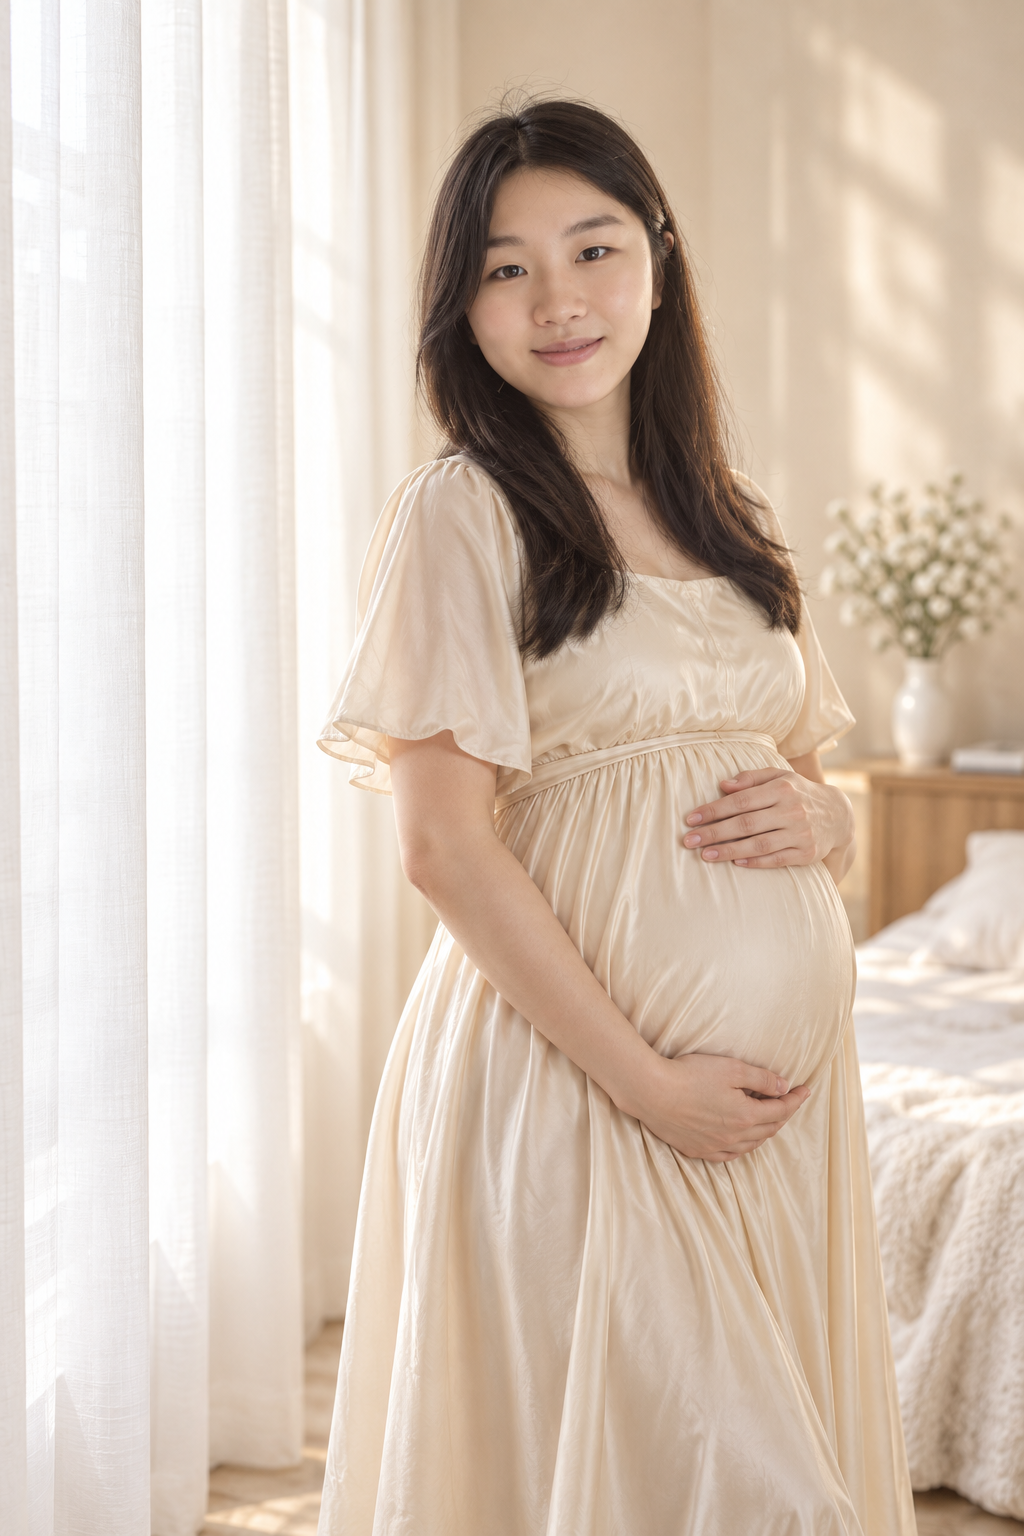
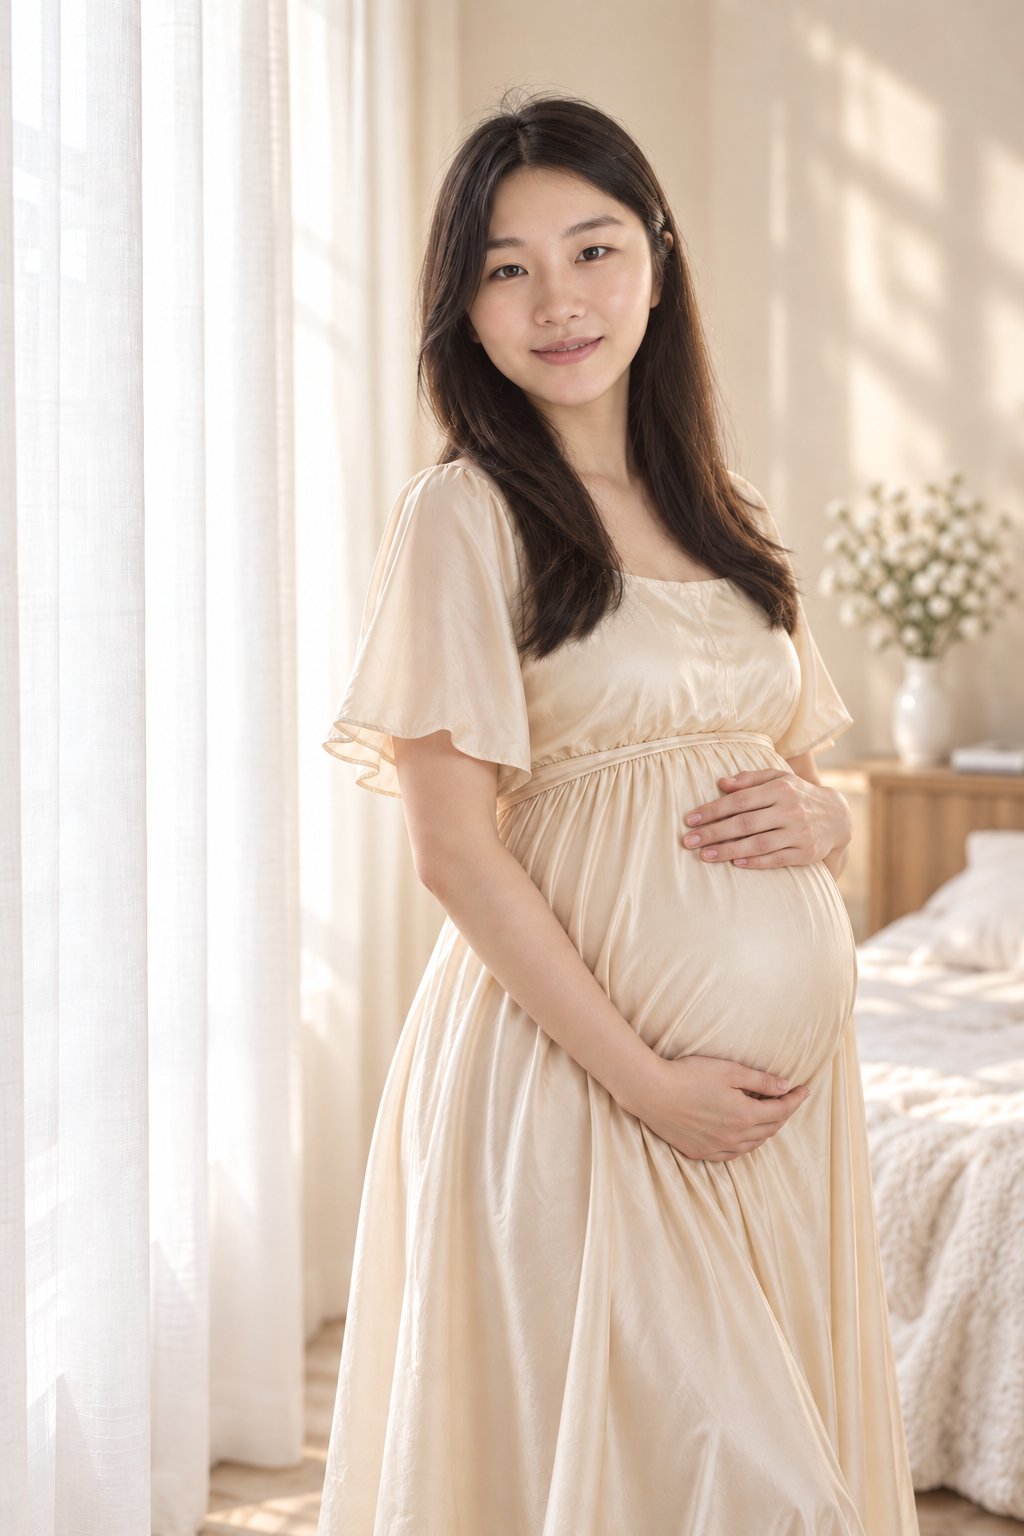
Refine facial and body contours in maternity portraits

diff --git a/photo/RETOUCH_PROMPTS.md b/photo/RETOUCH_PROMPTS.md
@@ -1,0 +1,27 @@
+# 女生面部与身形修饰记录
+
+日期：2026-09-26。工具：内置 `image_gen`，以 `photo/` 中对应的已有写真逐张编辑。
+
+本次重点：适度修饰脸颊、下颌线、肩颈及手臂轮廓，调整上半身衣裙垂坠；保留人物辨识度、自然孕肚、现有服装、表情、场景和合照中男生的形象。修饰后的文件沿用原文件名，修饰前版本保留在 Git 历史中。
+
+以下为每张图片使用的完整编辑提示词。
+
+## 01-ivory-studio.png
+
+Use case: identity-preserve. Edit the supplied existing AI-created professional maternity portrait. The image is the EDIT TARGET, not merely a style reference. Retouch ONLY the adult woman's face and physique to look noticeably but naturally more slender and elegant. Preserve her recognizable identity: same age, eye shape and size, nose, lips, hairline, hairstyle, facial expression and gaze. Gently reduce fullness of the lower cheeks, refine the oval face and jawline with a softly tapered natural chin; do not substitute a generic model or change ethnicity. Subtly streamline the neck, shoulder-to-arm transition and upper arms, with realistic joint structure and healthy proportions. Refine the upper-torso silhouette and dress drape for a graceful, slightly leaner look. Crucially preserve the natural prominent eight-month pregnancy bump and maternity character; do not flatten the abdomen or create a tiny waist at the bump. Keep her height, head-to-body scale, pose, hand placement and number of fingers anatomically consistent. Use restrained professional portrait retouching, delicate realistic makeup and flattering light, retaining real skin texture. Keep existing composition, crop, background geometry, colors, clothing design, fabric details and overall lighting as closely as possible. No extreme slimming, bony anatomy, enlarged eyes, pointed V-chin, plastic skin, warped background, extra fingers, new objects, text, watermark, collage or borders. Output one finished photorealistic vertical 2:3 PNG, 1024 x 1536 pixels. Specific target: ivory studio couple portrait. Keep the husband completely unchanged, including his face, rectangular glasses, corrected build, relative height, ivory shirt, beige trousers and supportive hand. Preserve the woman's ivory off-shoulder pleated gown and warm gentle smile. Refine the visible upper arm and facial contour with a natural moderate change.
+
+## 02-rose-garden.png
+
+Use case: identity-preserve. Edit the supplied existing AI-created professional maternity portrait. The image is the EDIT TARGET, not merely a style reference. Retouch ONLY the adult woman's face and physique to look noticeably but naturally more slender and elegant. Preserve her recognizable identity: same age, eye shape and size, nose, lips, hairline, hairstyle, facial expression and gaze. Gently reduce fullness of the lower cheeks, refine the oval face and jawline with a softly tapered natural chin; do not substitute a generic model or change ethnicity. Subtly streamline the neck, shoulder-to-arm transition and upper arms, with realistic joint structure and healthy proportions. Refine the upper-torso silhouette and dress drape for a graceful, slightly leaner look. Crucially preserve the natural prominent eight-month pregnancy bump and maternity character; do not flatten the abdomen or create a tiny waist at the bump. Keep her height, head-to-body scale, pose, hand placement and number of fingers anatomically consistent. Use restrained professional portrait retouching, delicate realistic makeup and flattering light, retaining real skin texture. Keep existing composition, crop, background geometry, colors, clothing design, fabric details and overall lighting as closely as possible. No extreme slimming, bony anatomy, enlarged eyes, pointed V-chin, plastic skin, warped background, extra fingers, new objects, text, watermark, collage or borders. Output one finished photorealistic vertical 2:3 PNG, 1024 x 1536 pixels. Specific target: rose garden couple portrait. Keep the husband completely unchanged, including face, eyeglasses, corrected physique, relative height, white shirt, taupe trousers and pose. Preserve the woman's pink maternity gown, natural tooth-showing smile, both hands cradling the bump, golden garden light and roses. Reduce extra visual bulk in the upper body and sleeve draping without changing the gown design.
+
+## 03-sunset-beach.png
+
+Use case: identity-preserve. Edit the supplied existing AI-created professional maternity portrait. The image is the EDIT TARGET, not merely a style reference. Retouch ONLY the adult woman's face and physique to look noticeably but naturally more slender and elegant. Preserve her recognizable identity: same age, eye shape and size, nose, lips, hairline, hairstyle, facial expression and gaze. Gently reduce fullness of the lower cheeks, refine the oval face and jawline with a softly tapered natural chin; do not substitute a generic model or change ethnicity. Subtly streamline the neck, shoulder-to-arm transition and upper arms, with realistic joint structure and healthy proportions. Refine the upper-torso silhouette and dress drape for a graceful, slightly leaner look. Crucially preserve the natural prominent eight-month pregnancy bump and maternity character; do not flatten the abdomen or create a tiny waist at the bump. Keep her height, head-to-body scale, pose, hand placement and number of fingers anatomically consistent. Use restrained professional portrait retouching, delicate realistic makeup and flattering light, retaining real skin texture. Keep existing composition, crop, background geometry, colors, clothing design, fabric details and overall lighting as closely as possible. No extreme slimming, bony anatomy, enlarged eyes, pointed V-chin, plastic skin, warped background, extra fingers, new objects, text, watermark, collage or borders. Output one finished photorealistic vertical 2:3 PNG, 1024 x 1536 pixels. Specific target: sunset beach couple portrait. Keep the husband completely unchanged, including his face, eyeglasses, corrected physique, relative height, ivory shirt, beige trousers and pose. Preserve the woman's dusty-blue maternity gown, neckline and sleeves, her current smile and the full-length beach composition. Keep the horizon straight, sand and ocean undistorted. Slightly refine her face, shoulders and upper-arm silhouette while preserving her belly and dress skirt.
+
+## 04-window-solo.png
+
+Use case: identity-preserve. Edit the supplied existing AI-created professional maternity portrait. The image is the EDIT TARGET, not merely a style reference. Retouch ONLY the adult woman's face and physique to look noticeably but naturally more slender and elegant. Preserve her recognizable identity: same age, eye shape and size, nose, lips, hairline, hairstyle, facial expression and gaze. Gently reduce fullness of the lower cheeks, refine the oval face and jawline with a softly tapered natural chin; do not substitute a generic model or change ethnicity. Subtly streamline the neck, shoulder-to-arm transition and upper arms, with realistic joint structure and healthy proportions. Refine the upper-torso silhouette and dress drape for a graceful, slightly leaner look. Crucially preserve the natural prominent eight-month pregnancy bump and maternity character; do not flatten the abdomen or create a tiny waist at the bump. Keep her height, head-to-body scale, pose, hand placement and number of fingers anatomically consistent. Use restrained professional portrait retouching, delicate realistic makeup and flattering light, retaining real skin texture. Keep existing composition, crop, background geometry, colors, clothing design, fabric details and overall lighting as closely as possible. No extreme slimming, bony anatomy, enlarged eyes, pointed V-chin, plastic skin, warped background, extra fingers, new objects, text, watermark, collage or borders. Output one finished photorealistic vertical 2:3 PNG, 1024 x 1536 pixels. Specific target: single-woman window-lit maternity portrait. Preserve the champagne satin gown, sleeves and empire waist, existing three-quarter pose, hand positions and soft closed-mouth smile. Make her face subtly more oval, upper arms and shoulders gently slimmer, and satin folds more flattering while keeping the pregnancy bump unchanged and the curtains, bedroom and light intact.
+
+## 05-courtyard-solo.png
+
+Use case: identity-preserve. Edit the supplied existing AI-created professional maternity portrait. The image is the EDIT TARGET, not merely a style reference. Retouch ONLY the adult woman's face and physique to look noticeably but naturally more slender and elegant. Preserve her recognizable identity: same age, eye shape and size, nose, lips, hairline, hairstyle, facial expression and gaze. Gently reduce fullness of the lower cheeks, refine the oval face and jawline with a softly tapered natural chin; do not substitute a generic model or change ethnicity. Subtly streamline the neck, shoulder-to-arm transition and upper arms, with realistic joint structure and healthy proportions. Refine the upper-torso silhouette and dress drape for a graceful, slightly leaner look. Crucially preserve the natural prominent eight-month pregnancy bump and maternity character; do not flatten the abdomen or create a tiny waist at the bump. Keep her height, head-to-body scale, pose, hand placement and number of fingers anatomically consistent. Use restrained professional portrait retouching, delicate realistic makeup and flattering light, retaining real skin texture. Keep existing composition, crop, background geometry, colors, clothing design, fabric details and overall lighting as closely as possible. No extreme slimming, bony anatomy, enlarged eyes, pointed V-chin, plastic skin, warped background, extra fingers, new objects, text, watermark, collage or borders. Output one finished photorealistic vertical 2:3 PNG, 1024 x 1536 pixels. Specific target: single-woman Chinese courtyard maternity portrait. Preserve the pale jade embroidered gown, floral lace, elbow-length sleeves, shoes, full-length pose and natural tooth-showing smile. Gently refine cheek and jaw fullness and visible upper-arm/shoulder contours. Keep her baby bump, garment length, feet, moon gate, stone paving, foliage, lighting and camera framing intact.

diff --git a/photo/README.md b/photo/README.md
@@ -4,7 +4,9 @@
 
 共 5 张竖版 PNG：3 张夫妻合照、2 张孕妇单人照，分辨率均为 1024 × 1536。保留参考照片中的人物特征，搭配不同场景和自然笑容。
 
-**身材修正版（2026-09-25）：** 三张夫妻合照已依据用户补充的真实全身照重新编辑，调整男生的相对身高、肩宽、躯干与四肢比例。下方展示的是修正版，原版保存在 Git 历史中。完整编辑提示词见 [身材修正提示词](BODY_CORRECTION_PROMPTS.md)。
+**女生面部与身形修饰版（2026-09-26）：** 5 张照片均使用内置 `image_gen` 在已有写真上编辑，适度修饰脸颊、下颌线、肩颈与手臂轮廓，优化上半身衣裙线条，保留人物辨识度、自然孕肚、原有场景和合照中男生的形象。照片沿用原文件名；此前版本保留在 Git 历史中。完整提示词见 [女生修饰提示词](RETOUCH_PROMPTS.md)。
+
+**男生身材修正记录（2026-09-25）：** 三张夫妻合照曾依据用户补充的真实全身照重新编辑，调整男生的相对身高、肩宽、躯干与四肢比例。完整编辑提示词见 [身材修正提示词](BODY_CORRECTION_PROMPTS.md)。
 
 | 照片 | 场景与表情 | 查看原图 |
 | --- | --- | --- |
